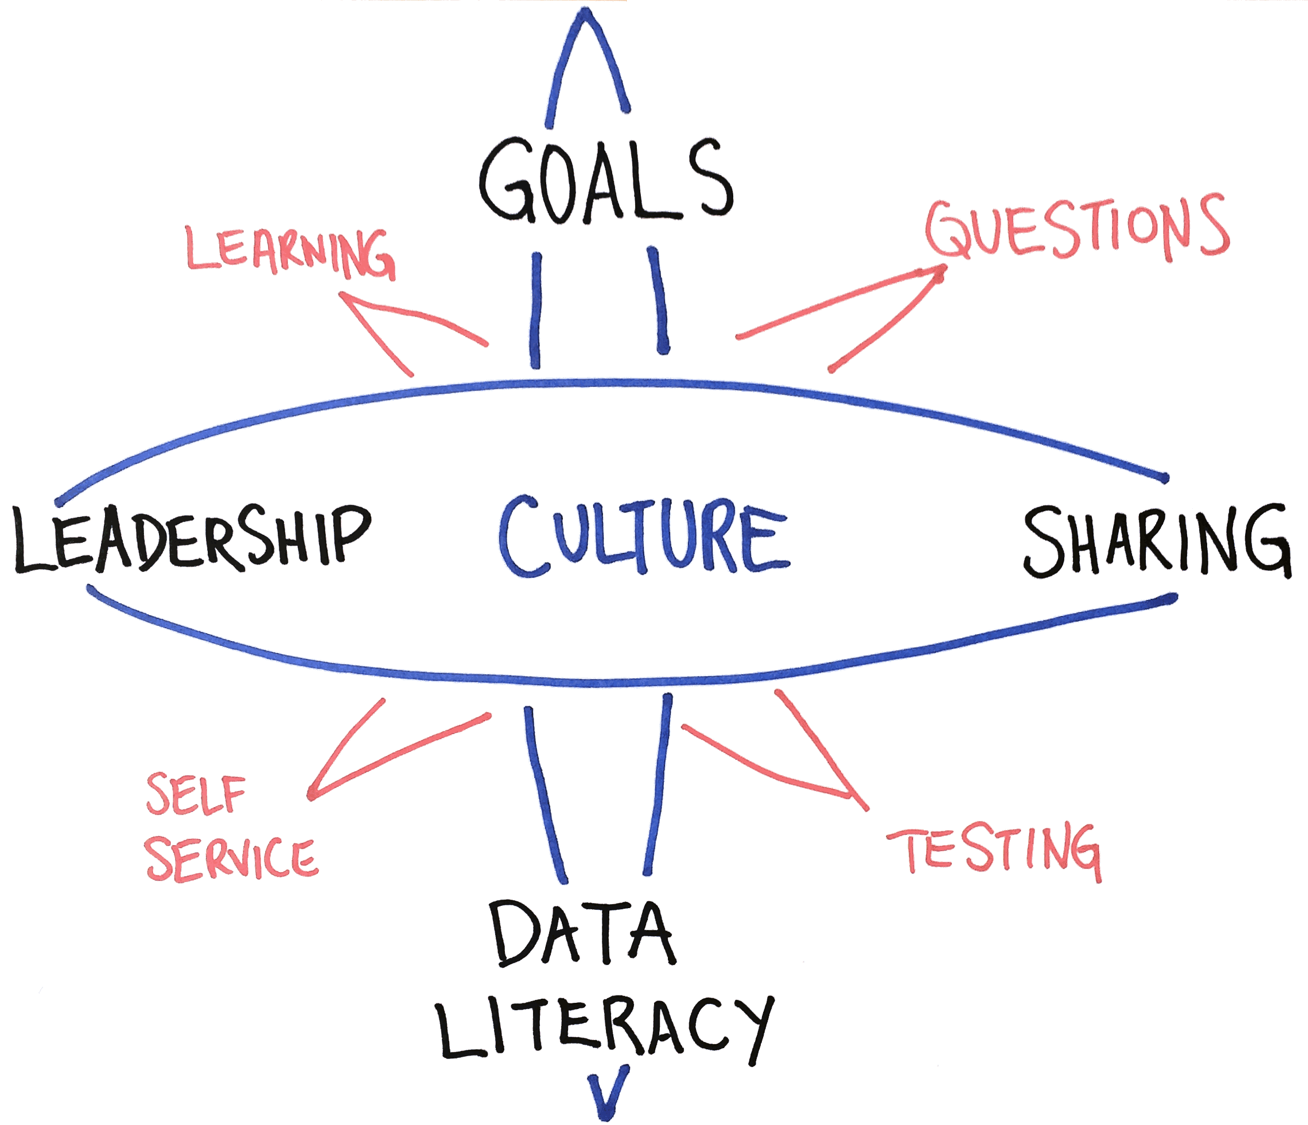
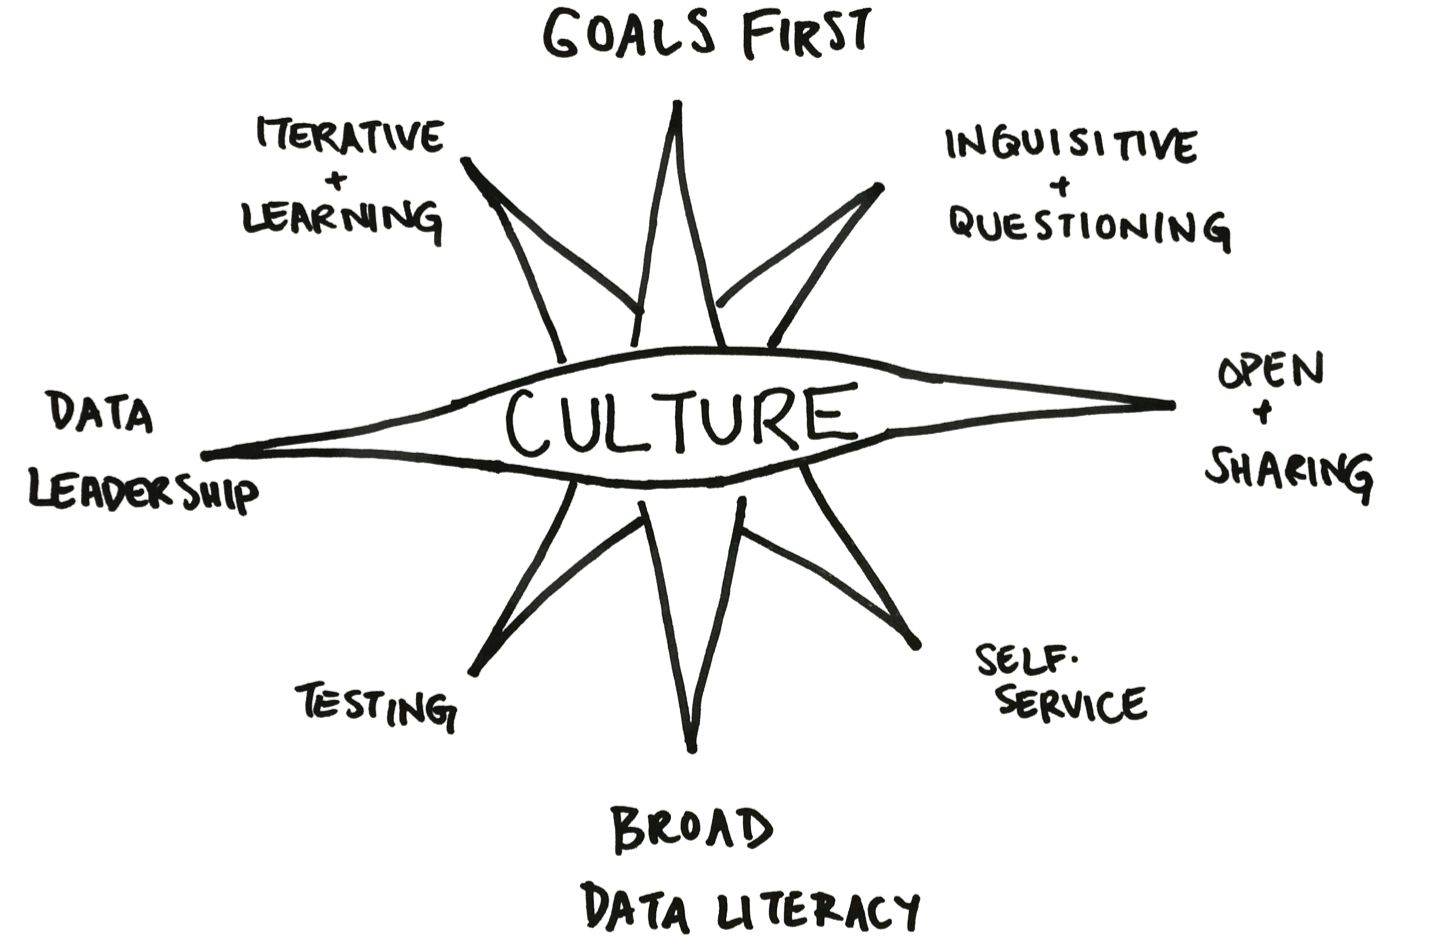
revising ddc compass graphic

Changed region(s): [[0.0, 0.0, 1.0, 1.0], [0.1223, 0.3686, 0.2141, 0.3994]]

diff --git a/slide.css b/slide.css
@@ -193,6 +193,9 @@ img[alt=img-center-85]{
 img[alt=img-center-90]{
   width:90%;
 }
+img[alt=img-center-95]{
+  width:95%;
+}
 img[alt=img-center-100]{
   width:100%;
 }

diff --git a/index.html b/index.html
@@ -36,7 +36,7 @@ class:center,middle
 ---
 
 # Data Driven Culture
-![img-center-75](images/ddc_compass.png)
+![img-center-100](images/ddc_compass.png)
 
 ---
 
